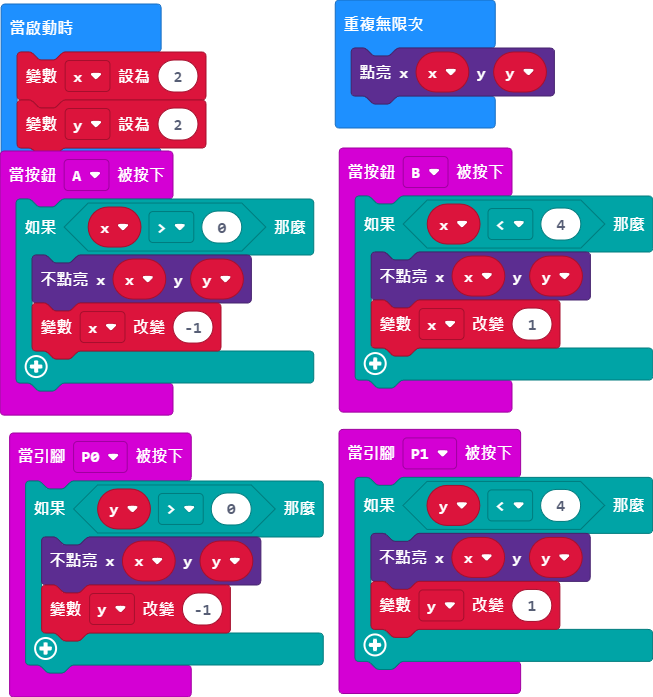
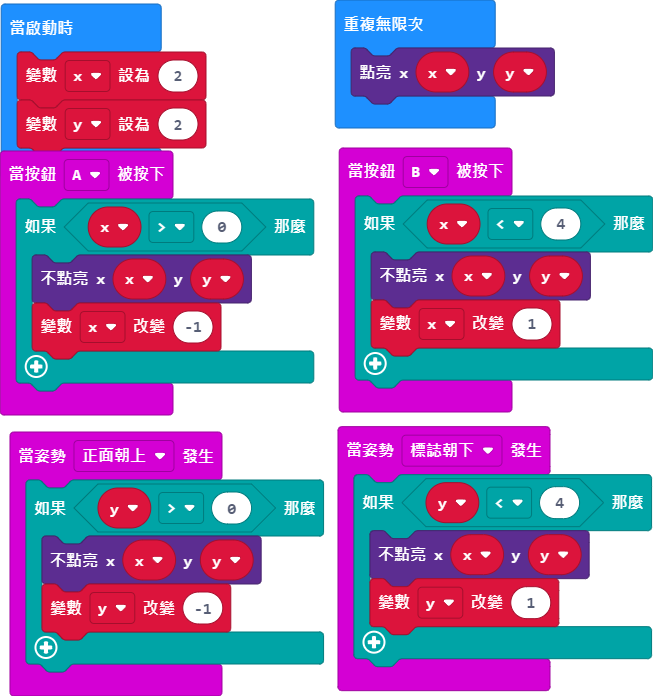
更新 main.blocks, main.ts

diff --git a/main.ts b/main.ts
@@ -1,7 +1,7 @@
-input.onPinPressed(TouchPin.P0, function () {
-    if (y > 0) {
+input.onGesture(Gesture.LogoDown, function () {
+    if (y < 4) {
         led.unplot(x, y)
-        y += -1
+        y += 1
     }
 })
 input.onButtonPressed(Button.A, function () {
@@ -10,16 +10,16 @@ input.onButtonPressed(Button.A, function () {
         x += -1
     }
 })
+input.onGesture(Gesture.ScreenUp, function () {
+    if (y > 0) {
+        led.unplot(x, y)
+        y += -1
+    }
+})
 input.onButtonPressed(Button.B, function () {
     if (x < 4) {
         led.unplot(x, y)
         x += 1
-    }
-})
-input.onPinPressed(TouchPin.P1, function () {
-    if (y < 4) {
-        led.unplot(x, y)
-        y += 1
     }
 })
 let y = 0
